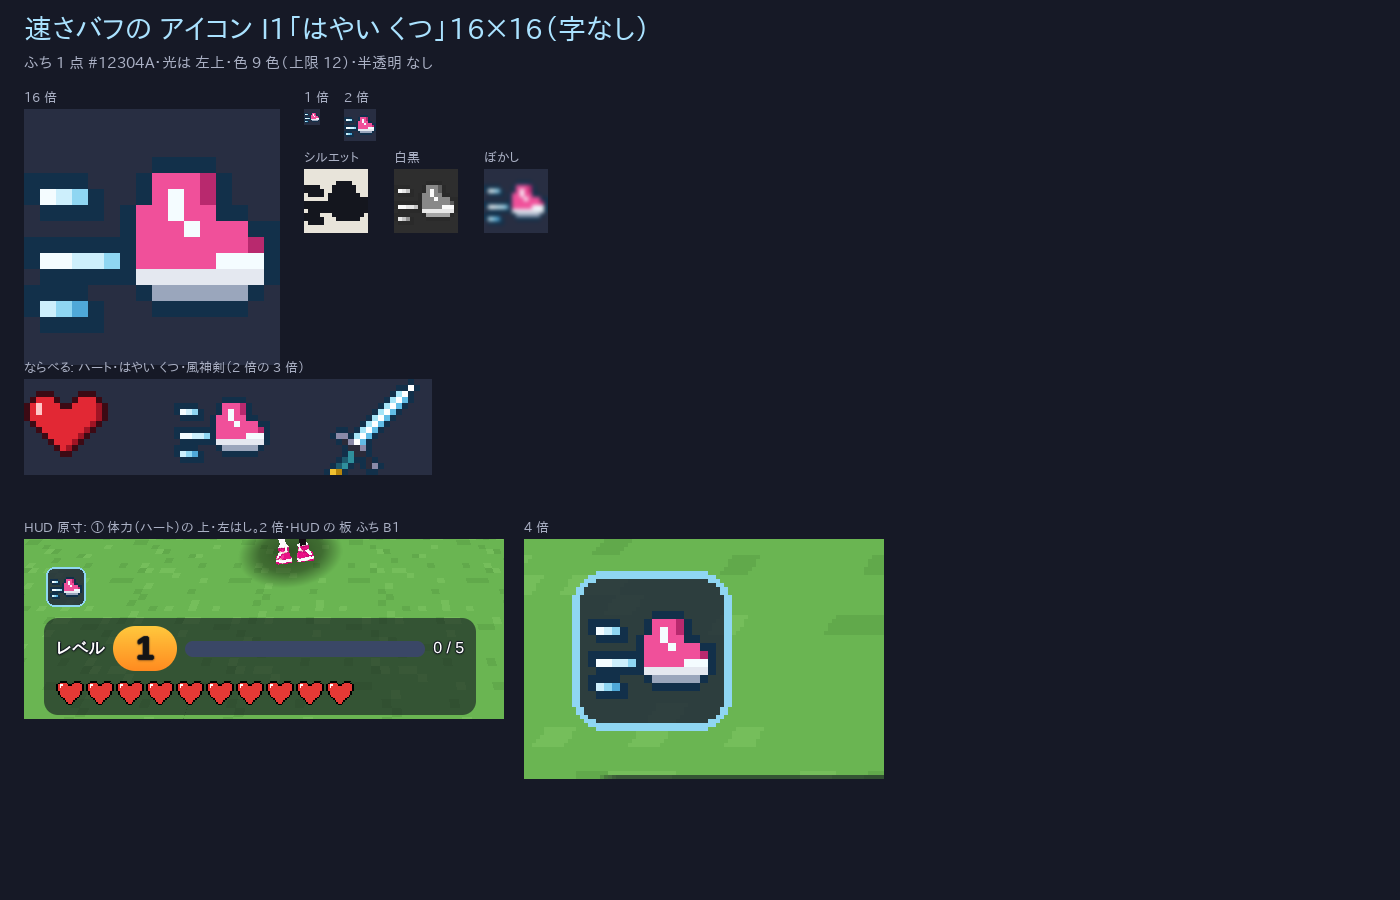
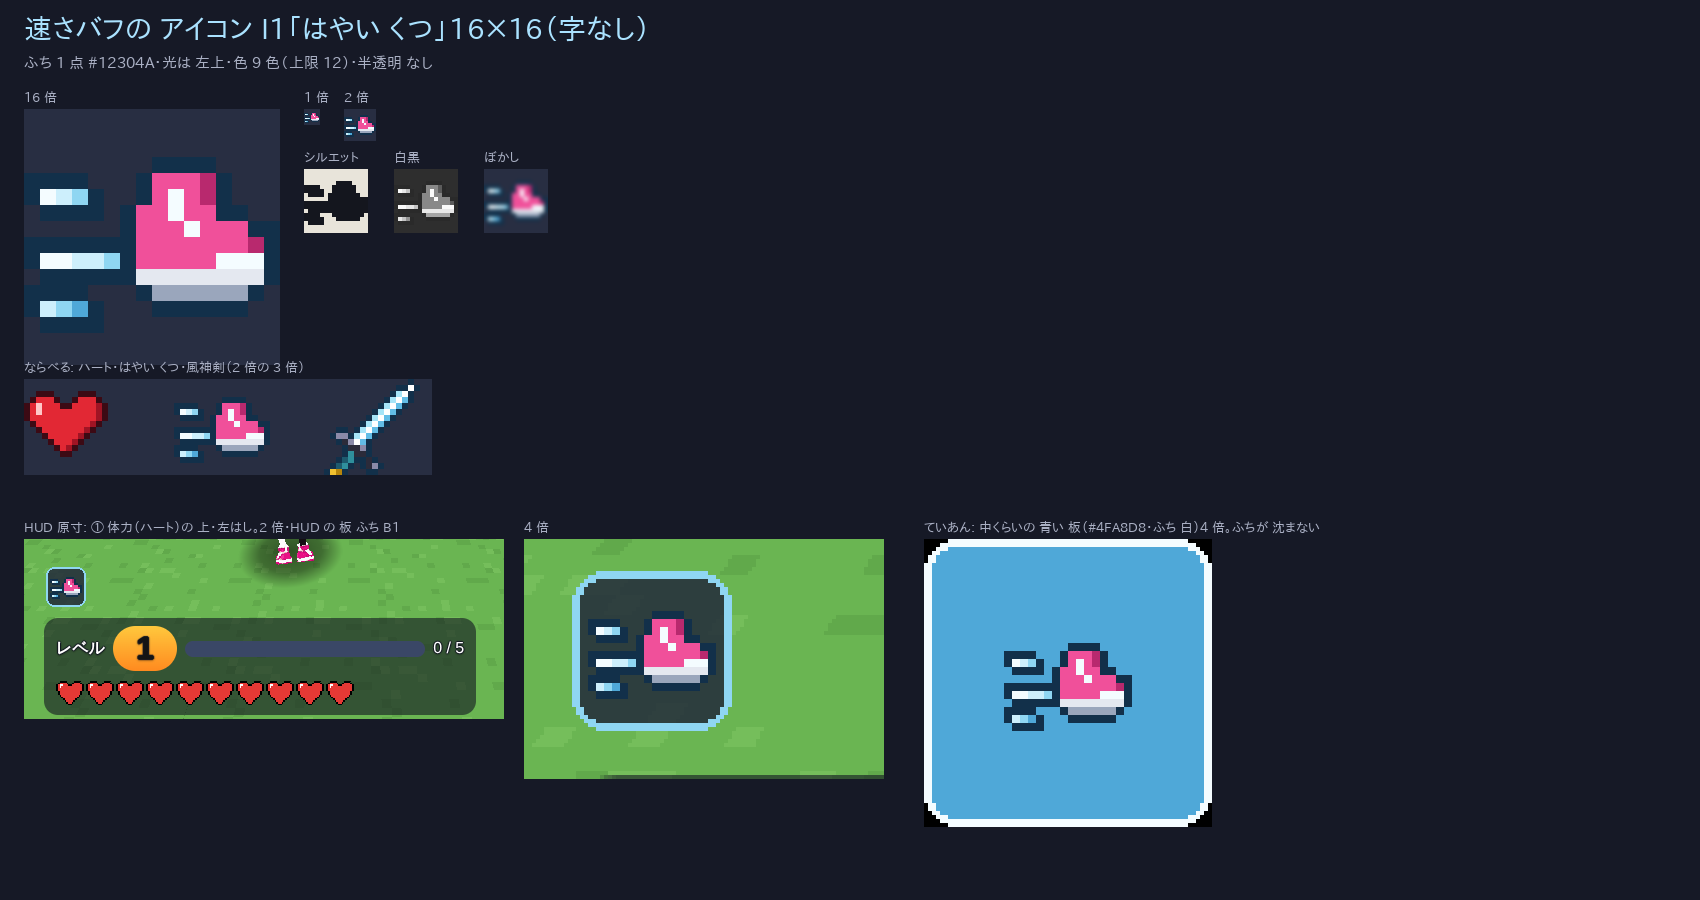
WEAPON-8: pixel-artist の素材（らせん B・ため T1・アイコン I1）
Claude-Session: https://claude.ai/code/session_01FBSj1juveQzD34Ew9JDroT

Changed region(s): [[0.0, 0.56, 0.7679, 0.9333], [0.0, 0.0, 0.4607, 0.5289], [0.0, 0.56, 0.2764, 0.6533]]

diff --git a/art/WEAPON-8/final/build.py b/art/WEAPON-8/final/build.py
@@ -364,15 +364,17 @@ def build_charge():
         "sprites": SPRITES,
         "blocksPerDot": PX,
         "use": {
-            "tsubu": "つぶ: 胸から 半径 1.2〜1.6 ブロックの 球の 上の 向き（下 半分 少なめ）。寿命 18 ステップ・はじめ ゆっくり 中で 速い（r = r0 (1 - u²)）。1 つぶ = tsubuHead 1 ＋ tsubuMid 1〜2 ＋ tsubuTail 1〜2（胸の 向きの うしろへ 1.3 点ずつ・速い ほど 長い 2〜6 こ）。カメラに 向く 板（各 3×3）。2 ステップに 1 つぶ（いっぱい 後は 4 ステップに 1）",
+            "tsubu": "つぶ: 胸から 半径 1.2〜1.6 ブロックの 球の 上の 向き（下 半分 少なめ）。寿命 18 ステップ・u = 年れい/18・はじめ ゆっくり 中で 速い（半径 = r0 (1 - u²)、0.12 より 小さく なったら 消す）。1 つぶ = tsubuHead 1 ＋ tsubuMid 1 ＋ tsubuTail 1（u > 0.35 から。胸と 反対 = 外がわへ 3 点ずつ ならべる）。カメラに 向く 板（各 3×3）。2 ステップに 1 つぶ（いっぱいの あとは 4 ステップに 1）",
             "core": "芯: ため に あわせて 大きく。core2（0 %）→ core5（100 %）= 2 + round(3 * F/60)。いっぱい（F ≥ 60）は core6。カメラに 向く 板",
             "ring": "いっぱいの しゅんかん 1 回だけ: a = F - 60（0〜9）で ring7（a=0〜1）→ ring12（2〜4）→ ring19（5〜6）→ ring26（7〜9）。段は a < 5 が shift 0・a ≥ 5 が shift 1（うすく なる）。a ≥ 10 で 消える。点滅しない",
             "spark": "きらり 4 つ: 胸の まわり 半径 0.75 ブロック・1 秒で 半回り・sparkBig と sparkSmall を 交互。いっぱいの 間 出つづける。「うごきを へらす」では つぶ・きらりを 出さず 芯と 輪だけ",
         },
-        "counts": {"drawCalls": 2, "drawCallsNote": "つぶ・きらり 1 ／ 芯・輪 1（1 まいの 絵）",
-                   "quads": "つぶ 最大 18 × 4 + きらり 4 + 芯 1 + 輪 1 = 約 80 まい（実際に 見える のは 約 60）",
-                   "trianglesNote": "案の 見積もりは 約 52（つぶの 尾を 1 まいの 絵で のばす 前提）。この 絵の まま つぶを 3 まいの 点で 作ると 約 120〜160 に なる → 尾を 1 つ 板に まとめるか 数を 絞る（上限 150）"},
+        "counts": {"drawCalls": 2, "drawCallsNote": "つぶ・きらり 1 ／ 芯・輪 1（同じ 1 まいの 絵）", "quads": "__Q__", "triangles": "__T__"},
     }
+    qmax = max(len(t1_items(atlas, F, CH.P(CH.WIND), (0, 0.9, 0))) for F in range(1, 140))
+    spec["counts"]["quads"] = qmax
+    spec["counts"]["triangles"] = qmax * 2
+    spec["counts"]["note"] = "同時に 出る 板の 最大（F = 1〜139 を 数えた）。三角形 = 板 × 2。上限 150 の 中"
     with open(os.path.join(FX, "charge_light.json"), "w", encoding="utf-8") as f:
         json.dump(spec, f, ensure_ascii=False, indent=1)
     return atlas, spec
@@ -391,18 +393,16 @@ def cell(atlas, name, pal, shift=0):
 
 def t1_items(atlas, F, pal, chest, seed=5):
     import random
-    cols = pal
     items = []
     full = F >= CH.FULL
     life = 18
     for born in range(1, F + 1):
+        # 2 ステップに 1 つぶ（いっぱいの あとは 4 ステップに 1 つぶ）。乱数の 順番は 案と そろえる
         r = random.Random(seed * 1000 + born)
-        d = CH._dir(r)  # 乱数の 順番を 案と そろえる
+        d = CH._dir(r)
         r0 = 1.2 + 0.4 * r.random()
-        if full and born >= CH.FULL and born % 2:
+        if born % (4 if born >= CH.FULL else 2):
             continue
-        if born % 2 and not full or (full and born < CH.FULL and born % 2):
-            pass
         u = (F - born) / life
         if u < 0 or u >= 1:
             continue
@@ -410,12 +410,10 @@ def t1_items(atlas, F, pal, chest, seed=5):
         if rr < 0.12:
             continue
         inward = mul(d, -1)
-        speed = 2 * u * r0 / life
-        n = 2 + min(4, int(speed * 30))
         pos = add(chest, mul(d, rr))
-        for k in range(n):
-            p = add(pos, mul(inward, -k * PX * 1.3 * 1.0))
-            nm = "tsubuHead" if k == 0 else ("tsubuMid" if k < 3 else "tsubuTail")
+        pieces = ["tsubuHead", "tsubuMid"] + (["tsubuTail"] if u > 0.35 else [])  # 速い ほど 尾が 長い
+        for k, nm in enumerate(pieces):
+            p = add(pos, mul(inward, -k * PX * 3))
             items.append(("spr", p, cell(atlas, nm, pal), PX))
     k = min(1.0, F / CH.FULL)
     rc = 2 + int(round(3 * k)) + (1 if full else 0)
@@ -607,8 +605,8 @@ def charge_sheet(atlas, spec, SP):
     rows = [["かず", "値"],
             ["絵", "128×128（2 の 累乗）・白黒 5 段 ＋ すきとおり"],
             ["描画回数", "2（つぶ・きらり 1 ／ 芯・輪 1）"],
-            ["板の 数", "つぶ 最大 18 つぶ × 最大 6 点 ＋ 芯 1 ＋ 輪 1 ＋ きらり 4"],
-            ["三角形", "案の 見積もり 約 52。つぶの 点を 1 点ずつ 板に すると 増える → JSON の counts"],
+            ["板の 数", f"最大 {spec['counts']['quads']} まい（つぶ 9 × 3 ＋ 芯 1 ＋ 輪 1 ＋ きらり 4）"],
+            ["三角形", f"{spec['counts']['triangles']}（上限 150。案の 見積もり 約 52 より 多い: つぶの 尾を 3 つの 点で 作った ため）"],
             ["1 点", "1/16 ブロック（案どおり）"]]
     sh.table((px0, y + 160), rows, [110, 560], 13, 24)
     sh.im = sh.im.crop((0, 0, 1800, y + 28 + 520))
@@ -616,7 +614,7 @@ def charge_sheet(atlas, spec, SP):
 
 
 def icon_sheet(ic):
-    sh = Sheet(1400, 900)
+    sh = Sheet(1700, 900)
     sh.text((24, 14), "速さバフの アイコン I1「はやい くつ」16×16（字なし）", 28, K.HEAD)
     sh.text((24, 54), f"ふち 1 点 #12304A・光は 左上・色 {len({ic.getpixel((x, y)) for x in range(16) for y in range(16) if ic.getpixel((x, y))[3]})} 色（上限 12）・半透明 なし", 15, K.SUB)
 
@@ -650,6 +648,13 @@ def icon_sheet(ic):
     hud.alpha_composite(p, (322, 548))
     sh.img((24, 520), hud.crop((300, 520, 780, 700)), "HUD 原寸: ① 体力（ハート）の 上・左はし。2 倍・HUD の 板 ふち B1", 13)
     sh.img((24 + 500, 520), up(hud.crop((310, 540, 400, 600)), 4), "4 倍", 13)
+    # 板の 色の ていあん: 暗い 板だと ふち（#12304A）が 沈む → 中くらいの 青の 板（#4FA8D8）に すると ふちが はっきり 出る
+    alt = Image.new("RGBA", (72, 72), (0, 0, 0, 0))
+    ImageDraw.Draw(alt).rounded_rectangle([0, 0, 71, 71], radius=8, fill=(79, 168, 216, 255), outline=(244, 252, 255, 255), width=2)
+    alt.alpha_composite(up(ic, 2), (20, 20) if False else (20, 20))
+    cur = bm.plate(ic)
+    sh.img((24 + 500, 820 - 160), up(cur, 3), "いまの 案の 板（暗い）3 倍", 13) if False else None
+    sh.img((24 + 500 + 400, 520), up(alt, 4), "ていあん: 中くらいの 青い 板（#4FA8D8・ふち 白）4 倍。ふちが 沈まない", 13)
     sh.save(os.path.join(OUT, "buff-icon-i1-final.png"))
 
 

diff --git a/docs/audio/WEAPON-8/now_render.py b/docs/audio/WEAPON-8/now_render.py
@@ -1,0 +1,54 @@
+# 今の ゲームの 音（src/fx/legendSounds.ts・sound.ts の Tone）を WebAudio と 同じ 作りで 近似して 書き出す（比べる ため）。
+# 大きさ: fxVolume 0.5（はじめ）× GAIN_K 2 × masterVolume 0.6、ノイズは ×4（NOISE_BOOST）。リミッターの 前。
+import numpy as np, wave, sys
+SR = 48000; VOL = 0.5 * 2 * 0.6
+def hz(n):
+    s = {'C':0,'D':2,'E':4,'F':5,'G':7,'A':9,'B':11}[n[0]]; o = int(n[-1]); return 440 * 2 ** ((s + 12*(o+1) - 69) / 12)
+rng = np.random.default_rng(12345); NZ = rng.random(SR) * 2 - 1
+def env(n, start_n, attack, stop, peak):
+    t = np.arange(n) / SR; e = np.zeros(n)
+    a = (t < attack); e[a] = peak * t[a] / attack
+    b = (t >= attack) & (t < stop); e[b] = peak * (0.0001 / peak) ** ((t[b] - attack) / (stop - attack))
+    return e
+def bp_sweep(x, f0, f1, q, typ):
+    n = len(x); y = np.zeros(n); x1 = x2 = y1 = y2 = 0.0
+    fr = f0 * (f1 / f0) ** (np.arange(n) / n) if f1 else np.full(n, f0)
+    for i in range(n):
+        w = 2*np.pi*fr[i]/SR; al = np.sin(w)/(2*q); c = np.cos(w)
+        if typ == 'bandpass': b0, b1, b2 = al, 0, -al
+        else: b0, b1, b2 = (1+c)/2, -(1+c), (1+c)/2
+        a0, a1, a2 = 1+al, -2*c, 1-al
+        v = (b0*x[i] + b1*x1 + b2*x2 - a1*y1 - a2*y2) / a0
+        x2, x1, y2, y1 = x1, x[i], y1, v; y[i] = v
+    return y
+def noise(delay, dur, gain, ftype, f0, f1, q, attack):
+    attack = max(0.002, attack); stop = max(dur, attack + 0.01); n = int(stop * SR)
+    src = np.resize(NZ, n); y = bp_sweep(src, f0, f1, q, ftype)
+    return delay, y * env(n, 0, attack, stop, min(8, gain * VOL * 4))
+def sine(f0, f1, delay, dur, gain, attack=0.002, partials=()):
+    attack = max(0.002, attack); stop = max(dur, attack + 0.01); n = int(stop * SR); t = np.arange(n)/SR
+    out = np.zeros(n); peak = min(1, gain * VOL)
+    for ratio, g, ds in [(1, 1, 1)] + list(partials):
+        ls = stop if ratio == 1 else max(dur*ds, attack+0.01); m = int(ls*SR)
+        fr = f0*ratio*(f1/f0) ** (np.arange(m)/m)
+        out[:m] += np.sin(2*np.pi*np.cumsum(fr)/SR) * env(m, 0, attack, ls, max(0.0002, peak*g))
+    return delay, out
+swish = lambda f0, f1, d, dur, g, q=1: noise(d, dur, g, 'bandpass', f0, f1, q, min(0.012, dur*0.3))
+shaka = lambda d, dur, g, f=5000: noise(d, dur, g, 'highpass', f, None, 0.7, min(0.006, dur*0.3))
+box = lambda f0, f1, d, dur, g, rich=False: [sine(f0, f1, d, dur, g, 0.002, [(2, .15, .6)] + ([(5.4, .06, .25)] if rich else []))]
+suzu = lambda d, n, gap, g: [noise(d+i*gap, 0.05, g*(1-i/(n+1)), 'bandpass', 7000-i*300, None, 6, 0.002) for i in range(n)]
+SOUNDS = {
+ 'now_windWave': [swish(1500, 3000, 0, 0.14, 0.12, 1.2), shaka(0.02, 0.06, 0.05, 5500)],
+ 'now_thunderSlash': [swish(1400, 5200, 0, 0.12, 0.16, 1.5), shaka(0.02, 0.04, 0.1, 6000)],
+ 'now_chargeReady': box(hz('G6'), hz('G6')*1.01, 0, 0.09, 0.3) + box(hz('D7'), hz('D7')*1.01, 0.07, 0.2, 0.28) + suzu(0.1, 3, 0.04, 0.1),
+ 'now_pickup': box(hz('C6'), hz('D6'), 0, 0.1, 0.45, True) + box(hz('G6'), hz('A6'), 0.06, 0.18, 0.35),
+}
+def render(parts, lead=0.1, tail=0.3):
+    end = max(d + len(x)/SR for d, x in parts); out = np.zeros(int((lead+end+tail)*SR))
+    for d, x in parts: i = int((lead+d)*SR); out[i:i+len(x)] += x
+    return out
+if __name__ == '__main__':
+    for k, v in SOUNDS.items():
+        y = render(v); y16 = np.clip(np.round(y*32767), -32768, 32767).astype('<i2')
+        with wave.open(f'{sys.argv[1]}/{k}.wav', 'wb') as w: w.setnchannels(1); w.setsampwidth(2); w.setframerate(SR); w.writeframes(y16.tobytes())
+        print(k, 'peak %.1f dBFS' % (20*np.log10(np.abs(y).max())))
